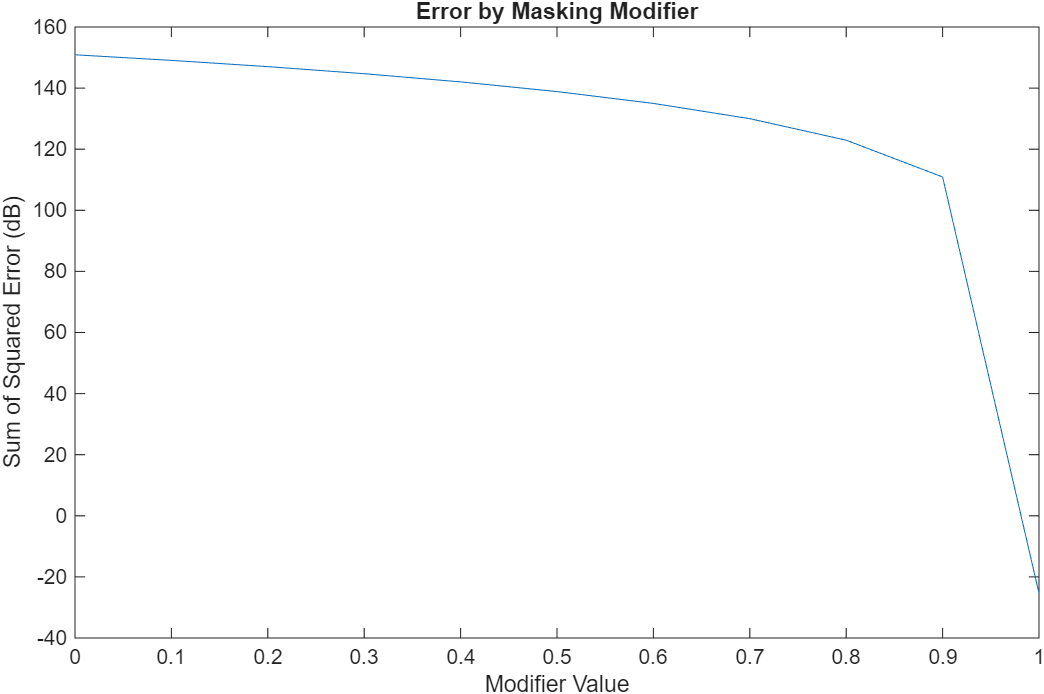
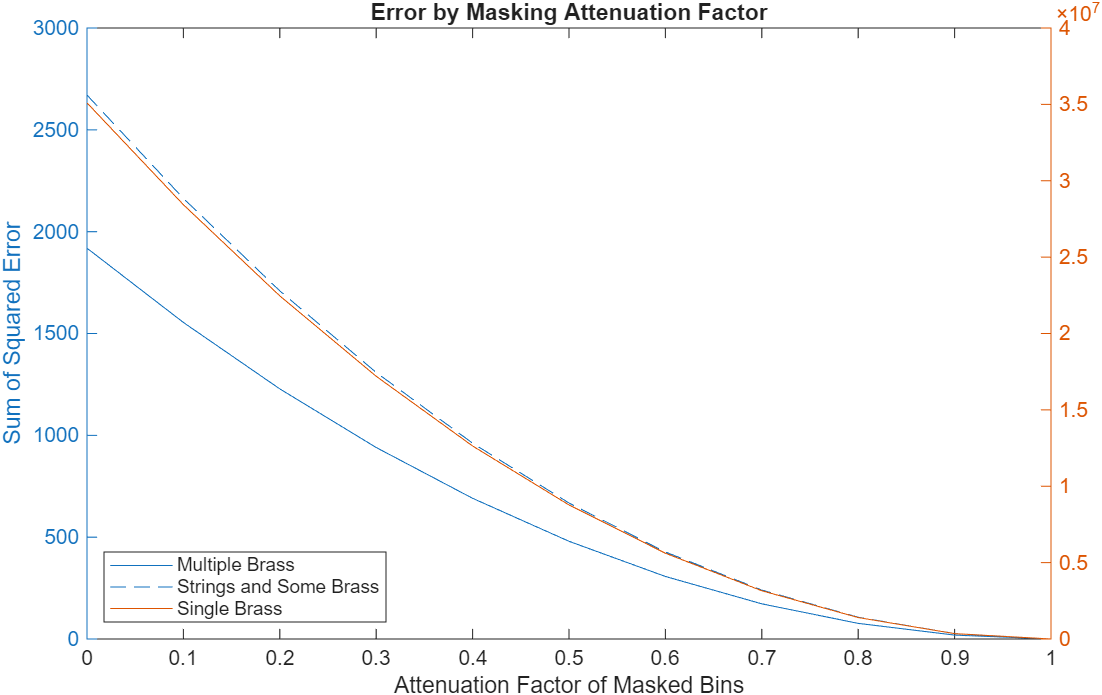
Rename masked modifier
- Renames masked modifier/masked mult to mask_gain and references it as attenuation factor for better clarity
 - Changes plots to reflect that
 - Tests error against attenuation factor for all 3 signals
 - Changes scale to linear for easier reading

diff --git a/main.m b/main.m
@@ -116,9 +116,9 @@ ylabel("No. of new coeff deleted")
 % for each block
 winSize = 2048; % Size of block
 overlap = 0.5; % Amount of overlap
-maskedMod  = 0.5; % value to reduce masked frequencies (multiply)
+maskGain  = 0.5; % value to reduce masked frequencies (multiply)
 
-[fft1OutDyn, ~] = window_signal(seg1, fft1, winSize, overlap, maskedMod, @dynamic_masking);
+[fft1OutDyn, ~] = window_signal(seg1, fft1, winSize, overlap, maskGain, @dynamic_masking);
 seg1OutDyn = ifft(fft1OutDyn);
 sound(seg1OutDyn(1:10*fs), fs);
 
@@ -148,15 +148,26 @@ title('Filtered Signal in Time Domain');
 xlabel('Time (s)');
 ylabel('Amplitude');
 
-%% Test multiple masked modifiers for dynamic thresholds
-maskedMods = 0:0.1:1;
-[errorsMM, ~] = test_thresholds(fft1, maskedMods, seg1, @(fftSig, maskedMult) window_signal(seg1, fftSig, winSize, overlap, maskedMult, @dynamic_masking));
+%% Test multiple attenuation factors for dynamic thresholds
+maskGains = 0:0.1:1;
+[errorsMM1, ~] = test_thresholds(fft1, maskGains, seg1, @(fftSig, maskedMult) window_signal(seg1, fftSig, winSize, overlap, maskedMult, @dynamic_masking));
+[errorsMM2, ~] = test_thresholds(fft2, maskGains, seg2, @(fftSig, maskedMult) window_signal(seg2, fftSig, winSize, overlap, maskedMult, @dynamic_masking));
+[errorsMM3, ~] = test_thresholds(fft3, maskGains, seg3, @(fftSig, maskedMult) window_signal(seg3, fftSig, winSize, overlap, maskedMult, @dynamic_masking));
 
+%% Plot error against attenuation factors
+close(findobj('Type', 'figure', 'Number', 11));
 figure(11);
-plot(maskedMods, 20*log10(abs(errorsMM)))
-title("Error by Masking Modifier")
-xlabel("Modifier Value")
-ylabel("Sum of Squared Error (dB)")
+yyaxis right
+plot(maskGains, abs(errorsMM1),'DisplayName', 'Single Brass')
+yyaxis left
+plot(maskGains, abs(errorsMM2),'DisplayName', 'Multiple Brass')
+hold on
+plot(maskGains, abs(errorsMM3),'DisplayName', 'Strings and Some Brass')
+hold off
+title("Error by Masking Attenuation Factor")
+xlabel("Attenuation Factor of Masked Bins")
+ylabel("Sum of Squared Error")
+legend('Location','southwest')
 
 %% Test multiple decays for dynamic thresholds
 % Test how error changes against an increasing masking range
@@ -164,12 +175,12 @@ decaysList = num2cell(2:2:40);
 for i = 1:length(decaysList)
     decaysList(i) = {[4 1] ./ decaysList{i}};
 end
-[errorsMD1, ~] = test_thresholds(fft1, decaysList, seg1, @(fftSig, decays) window_signal(seg1, fftSig, winSize, overlap, maskedMod, @(x,y) dynamic_masking(x,y,decays)));
-[errorsMD2, ~] = test_thresholds(fft2, decaysList, seg2, @(fftSig, decays) window_signal(seg2, fftSig, winSize, overlap, maskedMod, @(x,y) dynamic_masking(x,y,decays)));
-[errorsMD3, ~] = test_thresholds(fft3, decaysList, seg3, @(fftSig, decays) window_signal(seg3, fftSig, winSize, overlap, maskedMod, @(x,y) dynamic_masking(x,y,decays)));
+[errorsMD1, ~] = test_thresholds(fft1, decaysList, seg1, @(fftSig, decays) window_signal(seg1, fftSig, winSize, overlap, maskGain, @(x,y) dynamic_masking(x,y,decays)));
+[errorsMD2, ~] = test_thresholds(fft2, decaysList, seg2, @(fftSig, decays) window_signal(seg2, fftSig, winSize, overlap, maskGain, @(x,y) dynamic_masking(x,y,decays)));
+[errorsMD3, ~] = test_thresholds(fft3, decaysList, seg3, @(fftSig, decays) window_signal(seg3, fftSig, winSize, overlap, maskGain, @(x,y) dynamic_masking(x,y,decays)));
 
 %% Plot error against decays
-close(findobj('Type', 'figure', 'Number', 5));
+close(findobj('Type', 'figure', 'Number', 12));
 figure(12);
 yyaxis right
 plot(2:2:40, 20*log10(abs(errorsMD1)),'DisplayName', 'Single Brass')
@@ -198,12 +209,12 @@ xlabel('Frequency (kHz)');
 ylabel('Magnitude (dB)');
 hold off;
 
-%% Test other signals
+%% Test dynamic for multiple brass
 winSize = 2048; % Size of block
 overlap = 0.5; % Amount of overlap
-maskedMod  = 0.5; % value to reduce masked frequencies (multiply)
+maskGain  = 0.5; % value to reduce masked frequencies (multiply)
 
-[fft2OutDyn, ~] = window_signal(seg2, fft2, winSize, overlap, maskedMod, @dynamic_masking);
+[fft2OutDyn, ~] = window_signal(seg2, fft2, winSize, overlap, maskGain, @dynamic_masking);
 seg2OutDyn = ifft(fft2OutDyn);
 sound(seg2OutDyn(1:10*fs), fs);
 
@@ -218,8 +229,8 @@ errorDyn2 = (seg2OutDyn - seg2);
 ssErrorDyn2 = mean(errorDyn2(160:end-160) .^ 2);
 fprintf("Dynamic sum squared error (sig2): %e\n", ssErrorDyn2);
 
-%%
-[fft3OutDyn, ~] = window_signal(seg3, fft3, winSize, overlap, maskedMod, @dynamic_masking);
+%% Test dynamic for strings and some brass
+[fft3OutDyn, ~] = window_signal(seg3, fft3, winSize, overlap, maskGain, @dynamic_masking);
 seg3OutDyn = ifft(fft3OutDyn);
 sound(seg3OutDyn(1:10*fs), fs);
 
@@ -234,17 +245,25 @@ errorDyn3 = (seg3OutDyn - seg3);
 ssErrorDyn3 = mean(errorDyn3(160:end-160) .^ 2);
 fprintf("Dynamic sum squared error (sig3): %e\n", ssErrorDyn3);
 
-%% Save Figures (generated by gemini, modified)
+%% Save Figures/Outputs (generated by gemini, modified)
 % Get list of all open figure handles
-% figList = findobj(allchild(0), 'flat', 'Type', 'figure');
-% mkdir('results')
-% 
-% % Loop through and save each figure
-% for iFig = 1:length(figList)
-%     figHandle = figList(iFig);
-% 
-%     figNum = num2str(get(figHandle, 'Number'));
-% 
-%     % Save the figure
-%     exportgraphics(figHandle, ['results/Figure ' figNum '.png']); 
-% end
+figList = findobj(allchild(0), 'flat', 'Type', 'figure');
+mkdir('results')
+
+% Loop through and save each figure
+for iFig = 1:length(figList)
+    figHandle = figList(iFig);
+
+    figNum = num2str(get(figHandle, 'Number'));
+
+    % Save the figure
+    exportgraphics(figHandle, ['results/Figure ' figNum '.png']); 
+end
+
+fileID = fopen("results\output.txt", 'w');
+fprintf(fileID, "LPF sum squared error (sig1): %e\n", ssErrorLPF);
+fprintf(fileID, "Static sum squared error (sig1): %e\n", ssError5);
+fprintf(fileID, "Dynamic sum squared error (sig1): %e\n", ssErrorDyn);
+fprintf(fileID, "Dynamic sum squared error (sig2): %e\n", ssErrorDyn2);
+fprintf(fileID, "Dynamic sum squared error (sig3): %e", ssErrorDyn3);
+fclose(fileID);

diff --git a/dynamic_masking.m b/dynamic_masking.m
@@ -1,13 +1,13 @@
-function [fftOutFull, lowIndex] = dynamic_masking(fftSig, maskedMult, decays)
+function [fftOutFull, lowIndex] = dynamic_masking(fftSig, maskGain, decays)
 % DYNAMIC_MASKING Apply masking around peaks
 % Inputs:
-%   fftSig     - Precomputed FFT of the full signal (vector)
-%   maskedMult - Scalar multiplier applied to masked bins (typically <1)
-%   decays     - Two-element vector specifying asymmetric decay rates (in 
-%                dB/bin) for masking thresholds away from each detected 
-%                peak. Follow format of: decay for frequencies below, then 
-%                above. Larger values produce faster reduction of the 
-%                masking threshold with distance. Defaults to [2, 0.5].
+%   fftSig   - Precomputed FFT of the full signal (vector)
+%   maskGain - Scalar multiplier applied to masked bins (typically <1)
+%   decays   - Two-element vector specifying asymmetric decay rates (in 
+%              dB/bin) for masking thresholds away from each detected 
+%              peak. Follow format of: decay for frequencies below, then 
+%              above. Larger values produce faster reduction of the 
+%              masking threshold with distance. Defaults to [2, 0.5].
 %
 % Outputs:
 %   fftOutFull - FFT after applying dynamic masking (same size as fftSig)
@@ -24,20 +24,20 @@ function [fftOutFull, lowIndex] = dynamic_masking(fftSig, maskedMult, decays)
 %
 % Notes:
 %   - The input fftSig is expected to be a full FFT vector (length N).
-%   - maskedMult should be a scalar. If not provided, it defaults to 0.5.
+%   - maskGain should be a scalar. If not provided, it defaults to 0.5.
 %   - Function documentation generated using copilot and modified
 
     % Validate inputs
     if nargin < 1
         error('dynamic_masking requires at least one input: fftSig');
     end
-    if nargin < 2 || isempty(maskedMult)
-        maskedMult = 0.5; % default to half attenuation of masked bins
+    if nargin < 2 || isempty(maskGain)
+        maskGain = 0.5; % default to half attenuation of masked bins
     end
     if ~isvector(fftSig)
         error('fftSig must be a vector.');
     end
-    if ~isscalar(maskedMult) || ~isnumeric(maskedMult)
+    if ~isscalar(maskGain) || ~isnumeric(maskGain)
         error('maskedMult must be a numeric scalar.');
     end
     if nargin < 3 || isempty(decays)
@@ -86,7 +86,7 @@ function [fftOutFull, lowIndex] = dynamic_masking(fftSig, maskedMult, decays)
     % Still simply cut off the frequency, but at least it is according to 
     % nearby frequencies
     lowIndexHalf = fftdBHalf < dynThresholds;
-    fftHalf(lowIndexHalf) = fftHalf(lowIndexHalf).*abs(maskedMult);
+    fftHalf(lowIndexHalf) = fftHalf(lowIndexHalf).*abs(maskGain);
     
     % Flip and add in the negative frequencies
     fftOutFull = [fftHalf, conj(flip(fftHalf(2:end-1)))];

diff --git a/window_signal.m b/window_signal.m
@@ -1,4 +1,4 @@
-function [fftOut, lowIndex] = window_signal(signal, fftSig, winSize, overlap, maskedMod, masking_func)
+function [fftOut, lowIndex] = window_signal(signal, fftSig, winSize, overlap, maskParam, masking_func)
 % WINDOW_SIGNAL Apply masking by windowing
 %
 % Inputs:
@@ -9,8 +9,8 @@ function [fftOut, lowIndex] = window_signal(signal, fftSig, winSize, overlap, ma
 %   overlap      - Fractional overlap between windows expressed as a scalar
 %                  step multiplier (0 < overlap <= 1). winStep is computed
 %                  as winSize * overlap (should produce integer step).
-%   maskedMod    - Additional parameter passed to masking_func (e.g. mask
-%                  threshold or mode).
+%   maskParam    - Additional parameter passed to masking_func (e.g. mask
+%                  threshold or attenuation factor).
 %   masking_func - Function handle: [fftFiltered, lowIndex] = masking_func(fft, maskedMod)
 %                  that applies masking to a block FFT and returns the
 %                  masked FFT and a logical or numeric vector indicating
@@ -58,7 +58,7 @@ function [fftOut, lowIndex] = window_signal(signal, fftSig, winSize, overlap, ma
         fftBlock = fft(block);
     
         % Apply masking to the FFT of the current block
-        [fftBlock, lowIndexBlock] = masking_func(fftBlock, maskedMod);
+        [fftBlock, lowIndexBlock] = masking_func(fftBlock, maskParam);
     
         % Add filtered data together
         sigOut(step:(step + winSize - 1)) = sigOut(step:(step + winSize - 1)) + ifft(fftBlock) .* hWindow;
